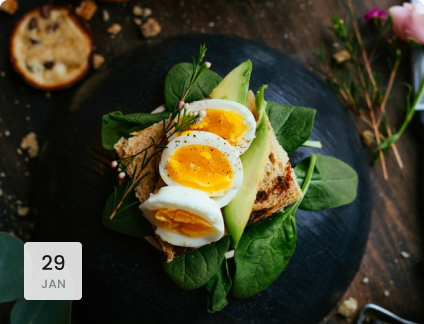
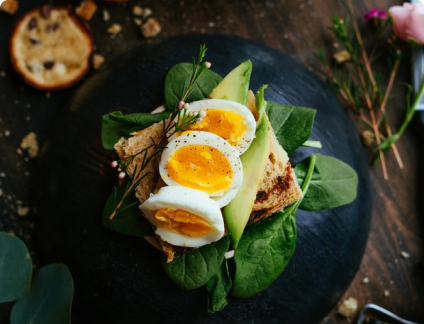
news card

Changed region(s): [[0.0307, 0.7407, 0.2146, 0.9259]]

diff --git a/shopery/src/pages/HomePage.jsx b/shopery/src/pages/HomePage.jsx
@@ -19,10 +19,13 @@ import pop5 from "../assets/pop5.png"
 import pop6 from "../assets/pop6.png"
 import pop7 from "../assets/pop7.png"
 import new1 from "../assets/news1.png"
+import new2 from "../assets/news2.png"
+import new3 from "../assets/news3.png"
 
 import ProductCard from '../components/ProductCard/ProductCard'
 import SecondBanner from '../components/SecondBanner/SecondBanner'
 import DiscountBannar from '../components/DiscountBannar/DiscountBannar'
+import NewsCard from '../components/NewsCard/NewsCard'
 
 
 function HomePage() {
@@ -53,17 +56,38 @@ export default HomePage
 
 const dummyNewsData =[
   {
-    title:"Oranges are more than just a sweet, tangy fruit—they’re nature's powerhouse of flavor and nutrition! Here's why you should grab one today",
-
-  }
+    title:"Oranges are more than just a sweet, tangy fruit—they’re nature's powerhouse of flavor and nutrition!",
+    images:new1,
+    topic:"Food",
+    createdAt:"17",
+    comments:3,
+  },
+  {
+    title:"Did you know that eggs are one of the most nutritious foods on the planet? ",
+    images:new2,
+    topic:"Food",
+    createdAt:"17",
+    comments:4,
+  },
+  {
+    title:"Salads are the perfect blend of health and taste, offering endless possibilities to keep your meals exciting.",
+    images:new3,
+    topic:"Food",
+    createdAt:"17",
+    comments:3,
+  },
 ]
 
 function LatestNews (){
   return(
     <div className='container'>
       <div className='latestnews'>
-      <p>Latest News</p>
-
+      <p className='platest'>Latest News</p>
+      <div className='news'>
+        {dummyNewsData.map((news,i)=>(
+          <NewsCard news={news} key={i} />
+        ))}
+      </div>
       </div>
 
     </div>

diff --git a/shopery/src/components/NewsCard/NewsCard.css b/shopery/src/components/NewsCard/NewsCard.css
@@ -1,0 +1,75 @@
+
+.newscard{
+    border: 1px solid var(--gray-05);
+    border-radius: .5rem;
+    position: relative;
+}
+.newscard img{
+width: 100%;
+
+}
+
+.newscarddate{
+    position: absolute;
+    bottom: 10px;
+    left: 10px;
+    text-align: center;
+    background-color: var(--white);
+    color: black;
+    padding: .4rem 1rem;
+    border-radius: .4rem;
+
+}
+
+.newscarddate p:first-of-type{
+    font-size: var(--font-size-body-xl);
+    font-weight: var(--font-weight-500);
+    color: var(--gray-9);
+}
+.newscarddate p:last-of-type{
+    font-size: var(--font-size-body-small);
+    text-transform: uppercase;
+    font-weight: var(--font-weight-400);
+    color: var(--gray-5);
+}
+
+.newscard .newstextsection{
+    padding: 1rem;
+    display: flex;
+    flex-direction: column;
+    gap: 1rem;
+}
+.newscard .newtopsection{
+    display: flex;
+    justify-content: space-between;
+}
+.newscard .newtopsection span{
+    display: flex;
+    gap: .4rem;
+    font-size: var(--font-size-body-small);
+    font-weight: var(--font-weight-400);
+    color: var(--gray-7);
+}
+.newscard .newtopsection span svg{
+    
+    color: var(--gray-3);
+}
+
+.newscard .newstextsection .newstitle{
+    font-size: var(--font-size-body-large);
+    font-weight: var(--font-weight-500);
+    line-height: var(--line-height-body);
+}
+
+.newscard .newstextsection .readmore{
+    display: flex;
+    align-items: center;
+    gap: .5rem;
+    color: var(--primary);
+    font-size: var(--font-size-body-medium);
+    font-weight: var(--font-weight-500);
+}
+
+.newscard:hover .newstextsection .newstitle{
+color: var(--primary);
+}

diff --git a/shopery/src/components/NewsCard/NewsCard.jsx b/shopery/src/components/NewsCard/NewsCard.jsx
@@ -1,0 +1,42 @@
+import React from 'react'
+import '../NewsCard/NewsCard.css'
+import { CiShoppingTag } from "react-icons/ci";
+import { IoPersonOutline } from "react-icons/io5";
+import { FaRegCommentAlt } from "react-icons/fa";
+import { FaArrowRightLong } from 'react-icons/fa6'
+
+function NewsCard({news}) {
+  return (
+    <div className='newscard'>
+        <div style={{position:'relative'}}>
+            
+        <img src={news.images} alt="" />
+        <span className='newscarddate'>
+        <p >{news.createdAt}</p>
+        <p>Nev</p>
+        </span>
+        </div>
+        <div className='newstextsection'>
+            
+        <div className='newtopsection'>
+        <span>
+        <CiShoppingTag />
+        <p>{news.topic}</p>
+        </span>
+        <span>
+        <IoPersonOutline />
+        <p>By Admin</p>
+        </span>
+        <span>
+        <FaRegCommentAlt />
+        <p>{news.comments} comments</p>
+        </span>
+        </div>
+        <p className='newstitle'>{news.title}</p>
+        <p className='readmore'>Read More <FaArrowRightLong/></p>
+        </div>
+    </div>
+  )
+}
+
+export default NewsCard

diff --git a/shopery/src/styles/HomePage.css b/shopery/src/styles/HomePage.css
@@ -198,3 +198,21 @@
     display: grid;
     grid-template-columns: repeat(auto-fit, minmax(10rem, 1fr));
 }
+
+/* latestnews */
+
+.latestnews{
+    margin-top: 3rem;
+}
+.latestnews .platest{
+    text-align: center;
+    margin-bottom: 2rem;
+    font-size: var(--font-size-heading-05);
+    font-weight: var(--font-weight-600);
+    line-height: var(--line-height-heading);
+}
+.latestnews .news{
+    display: grid;
+    grid-template-columns: repeat(auto-fit, minmax(16rem, 1fr));
+    gap: 1rem;
+}
